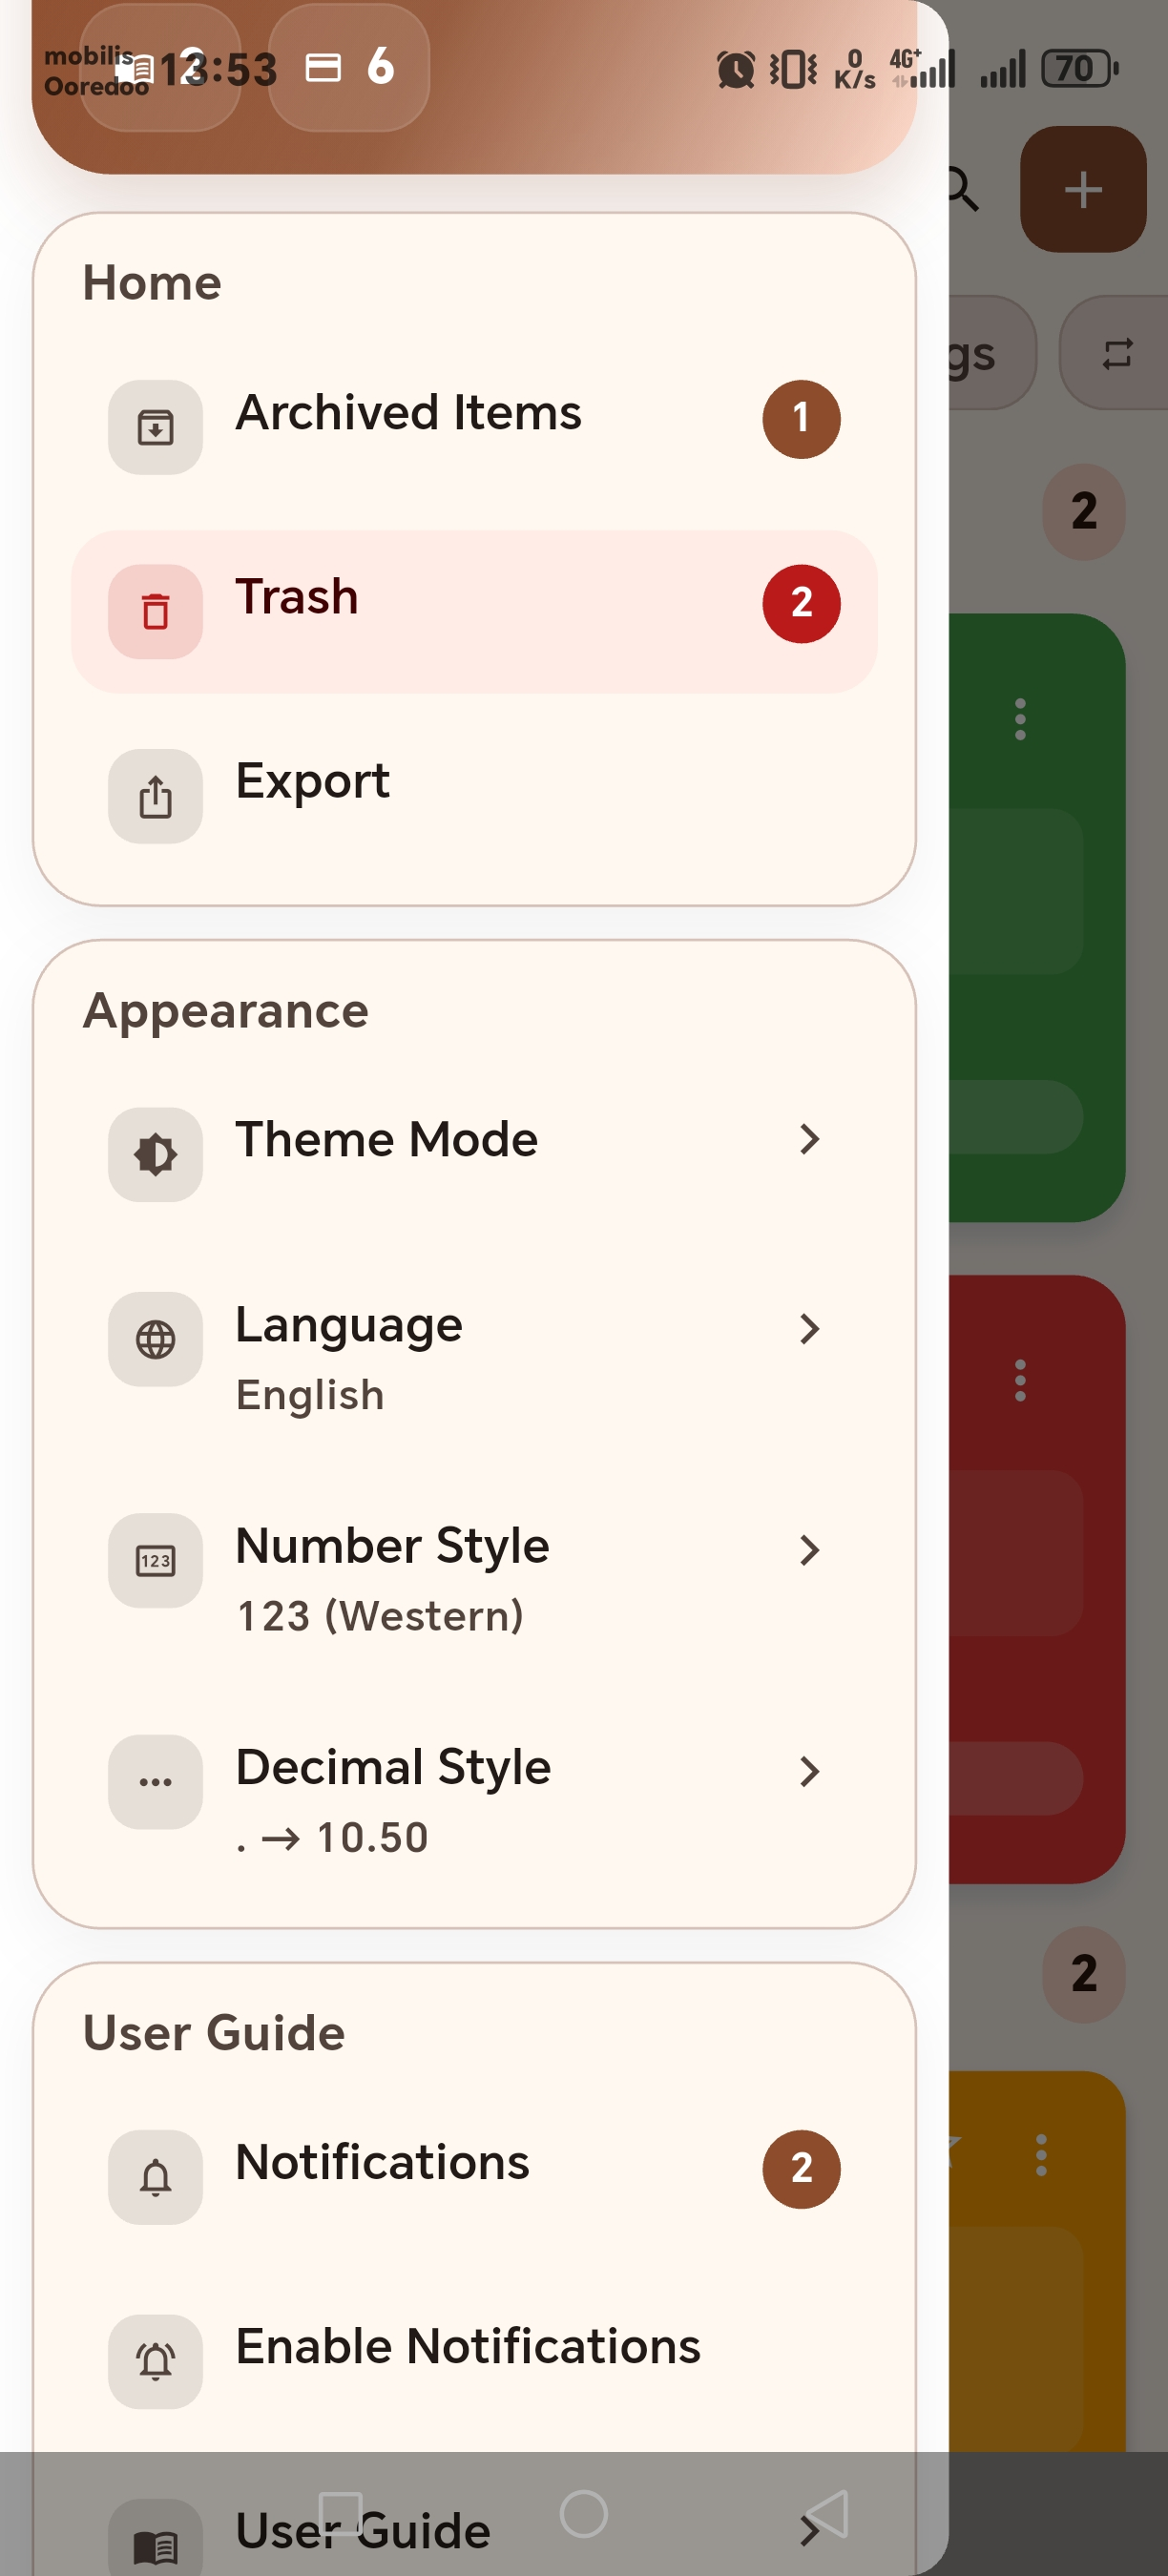
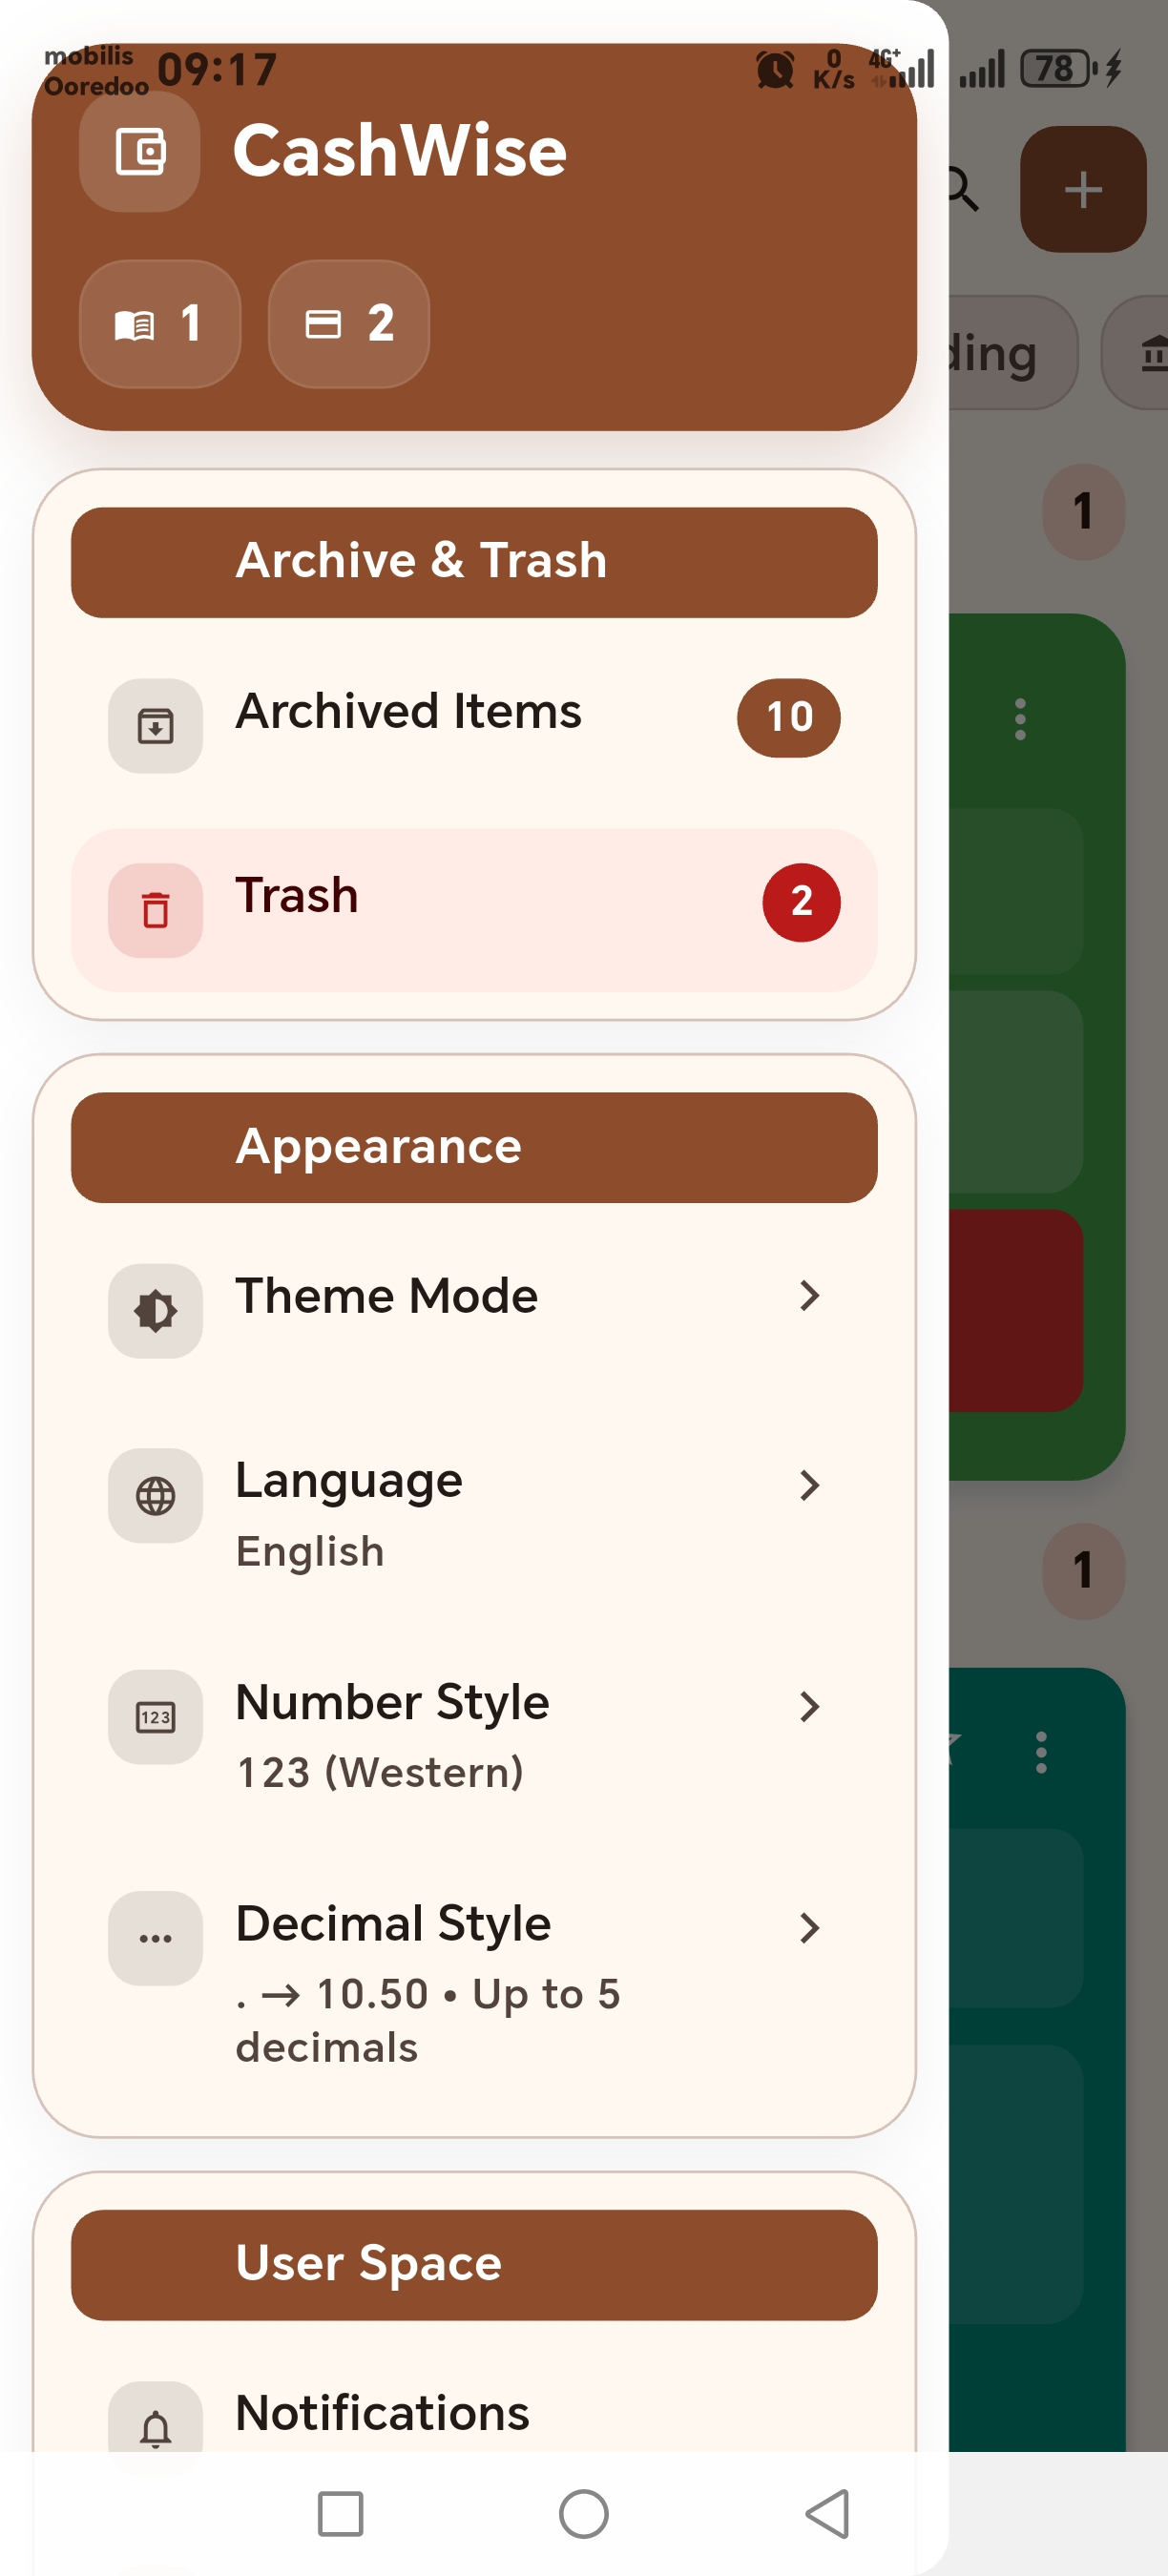
Replace screenshots with English versions and fix 08.jpg portrait orientation

diff --git a/index.html b/index.html
@@ -830,7 +830,7 @@
                     controls
                     playsinline
                     preload="metadata"
-                    poster="assets/images/03.jpg"
+                    poster="assets/images/03.webp"
                   >
                     <source src="assets/videos/cashbook-cards-explanation.mp4" type="video/mp4" />
                   </video>
@@ -896,7 +896,7 @@
                   loading="lazy"
                 />
               </figure>
-              <figure class="aspect-[16/9] overflow-hidden rounded-3xl border border-line bg-slate-50 shadow-soft sm:col-span-2 xl:col-span-1 xl:aspect-[9/16]">
+              <figure class="aspect-[9/16] overflow-hidden rounded-3xl border border-line bg-slate-50 shadow-soft">
                 <img
                   src="assets/images/08.jpg"
                   alt="CashWise notifications screen highlighting reminders and alerts"